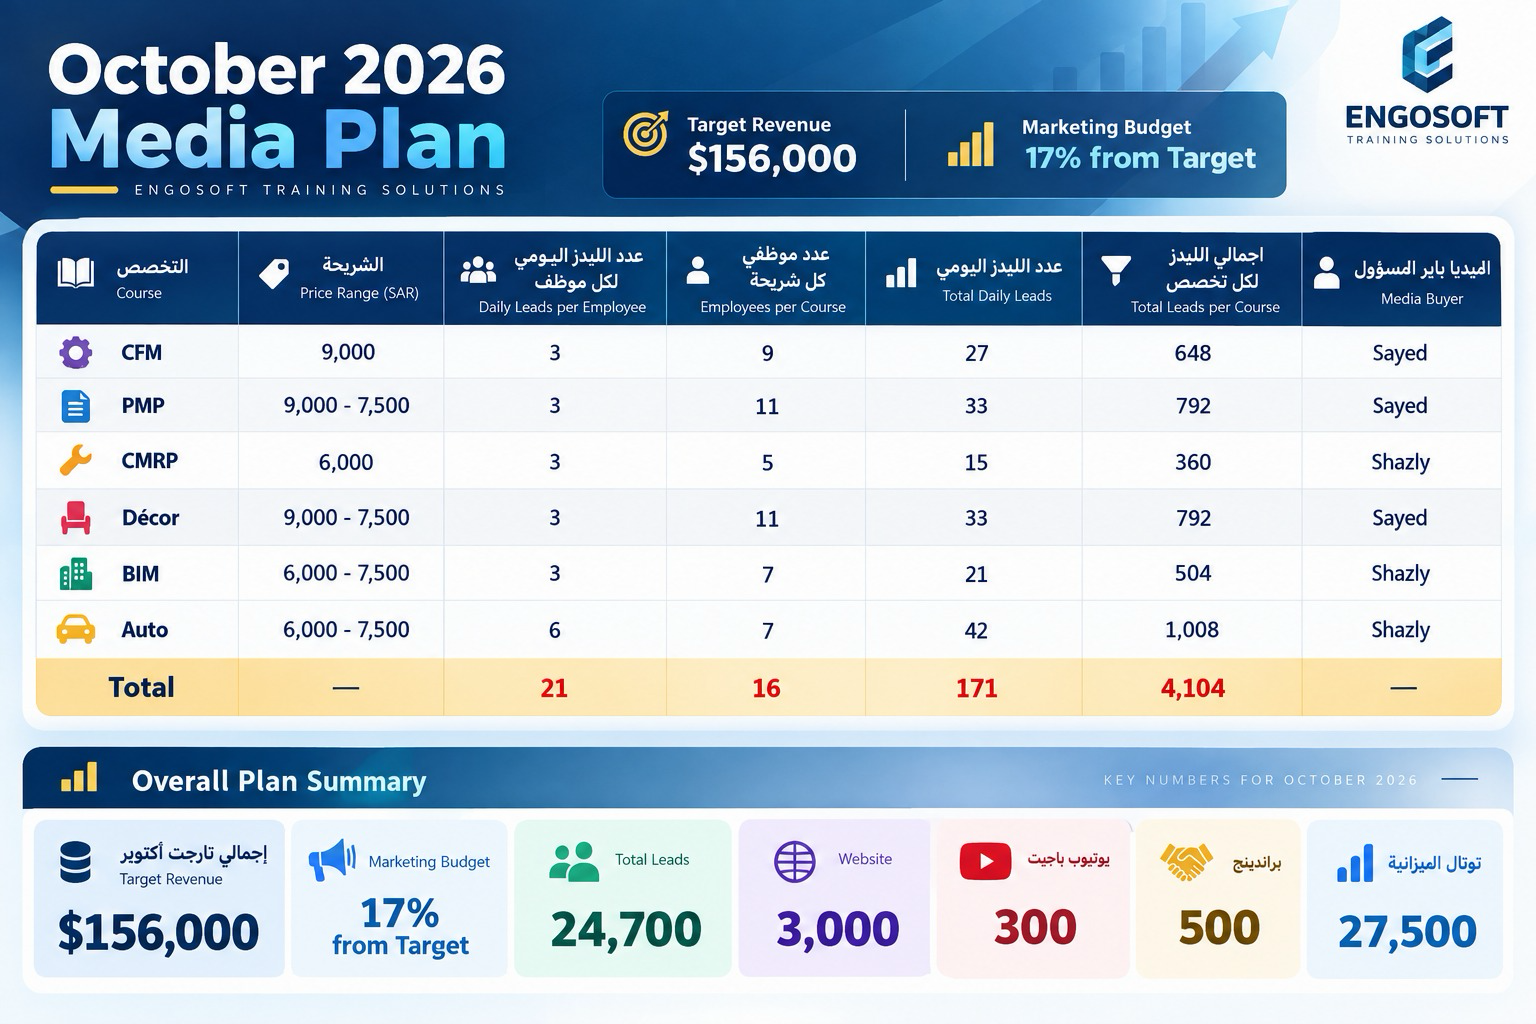
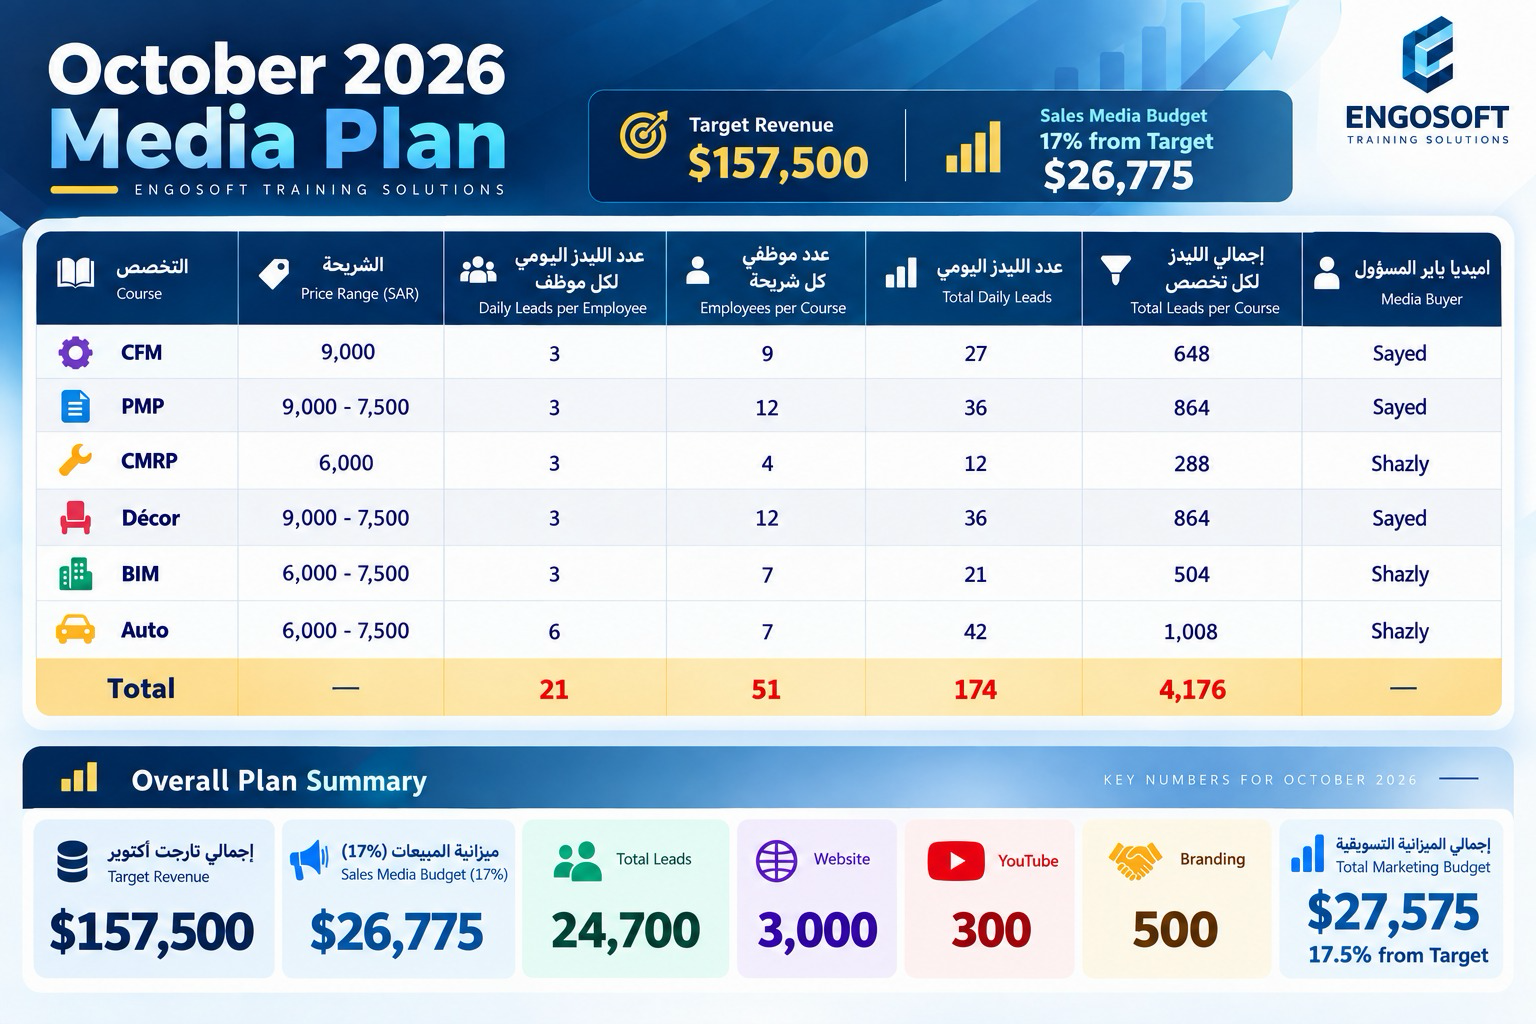
fix: update October sales and daily lead targets

diff --git a/src/lib/media-plan.ts b/src/lib/media-plan.ts
@@ -160,26 +160,26 @@ export const MEDIA_PLANS: Record<string, MonthlyMediaPlan> = {
   "2026-08": basePlan("2026-08", "approved"),
   "2026-09": basePlan("2026-09", "draft", "2026-08"),
   // Imported from the supplied October image as a DRAFT. The image says
-  // 24,700 total leads, but its six course rows sum to 4,104 and the website
+  // 24,700 total leads, but its six course rows sum to 4,176 and the website
   // goal is 3,000. YouTube (300) and branding (500) have no stated unit, so
   // they remain separate custom goals, not inferred leads in KPI denominators.
   "2026-10": {
     month: "2026-10",
     status: "draft",
-    paidLeadTarget: 4_104,
+    paidLeadTarget: 4_176,
     organicWebinarLeadTarget: 0,
-    leadTarget: 4_104,
+    leadTarget: 4_176,
     leadGenerationBudgetUsd: 0,
-    overallMarketingBudgetUsd: 27_500,
-    salesTargetUsd: 156_000,
+    overallMarketingBudgetUsd: 27_575,
+    salesTargetUsd: 157_500,
     courses: [
       { key: "cfm", label: "CFM", targetLeads: 648, targetCpl: 0, owners: ["Sayed"] },
-      { key: "pmp", label: "PMP", targetLeads: 792, targetCpl: 0, owners: ["Sayed"] },
-      { key: "cmrp", label: "CMRP", targetLeads: 360, targetCpl: 0, owners: ["Shazly"] },
+      { key: "pmp", label: "PMP", targetLeads: 864, targetCpl: 0, owners: ["Sayed"] },
+      { key: "cmrp", label: "CMRP", targetLeads: 288, targetCpl: 0, owners: ["Shazly"] },
       {
         key: "interior",
         label: "Décor / Interior",
-        targetLeads: 792,
+        targetLeads: 864,
         targetCpl: 0,
         owners: ["Sayed"],
       },
@@ -227,14 +227,15 @@ export const MEDIA_PLANS: Record<string, MonthlyMediaPlan> = {
 export const OCTOBER_2026_SOURCE = {
   image: "/media-plan/october-2026-source.png",
   statedTotalLeads: 24_700,
-  courseLeads: 4_104,
+  courseLeads: 4_176,
   websiteLeads: 3_000,
   youtubeGoal: 300,
   brandingGoal: 500,
-  marketingBudgetUsd: 27_500,
-  salesTargetUsd: 156_000,
-  staffTotal: 16,
-  dailyCourseLeads: 171,
+  marketingBudgetUsd: 26_775,
+  overallMarketingBudgetUsd: 27_575,
+  salesTargetUsd: 157_500,
+  staffTotal: 51,
+  dailyCourseLeads: 174,
   workingDays: 24,
 } as const;
 

diff --git a/src/routes/media-plan.tsx b/src/routes/media-plan.tsx
@@ -536,7 +536,9 @@ function OctoberSourcePanel({ lang }: { lang: "ar" | "en" }) {
           <div className="mt-3 grid gap-2 sm:grid-cols-2 xl:grid-cols-5">
             <div className="rounded-xl border border-border bg-surface p-3">
               <div className="text-[10px] text-text-muted">
-                {A ? "ليدز الدورات · 171 يوميًا × 24 يوم" : "Course leads · 171 daily × 24 days"}
+                {A
+                  ? `ليدز الدورات · ${fmtNum(source.dailyCourseLeads)} يوميًا × ${fmtNum(source.workingDays)} يوم`
+                  : `Course leads · ${fmtNum(source.dailyCourseLeads)} daily × ${fmtNum(source.workingDays)} days`}
               </div>
               <div className="num mt-1 text-lg font-bold text-text">
                 {fmtNum(source.courseLeads)}
